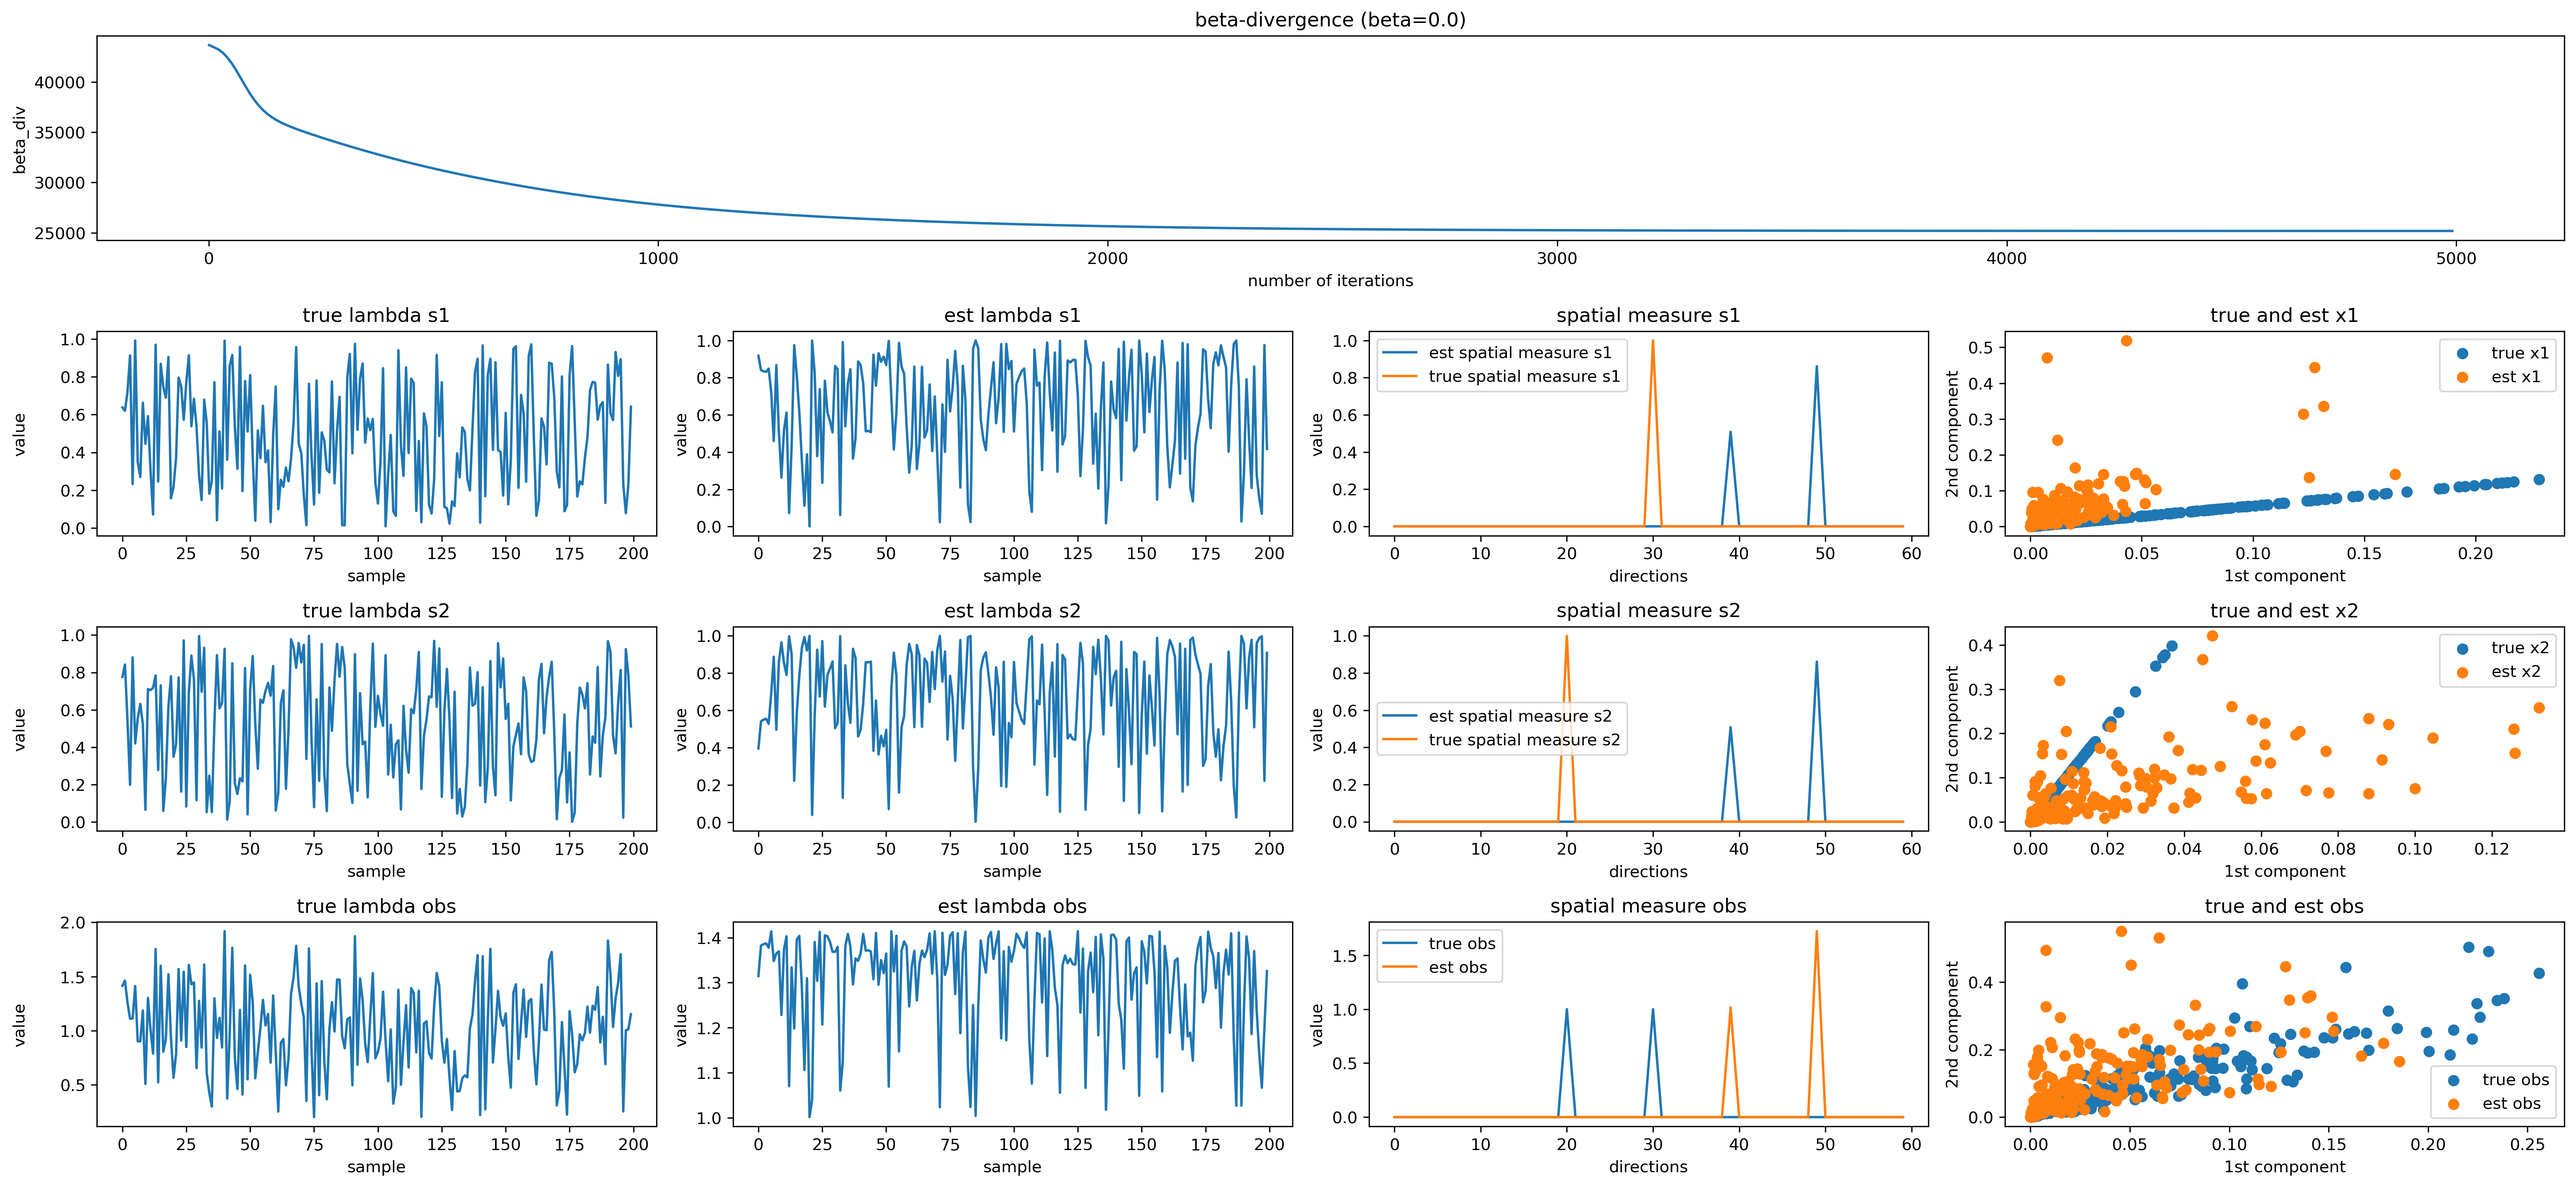
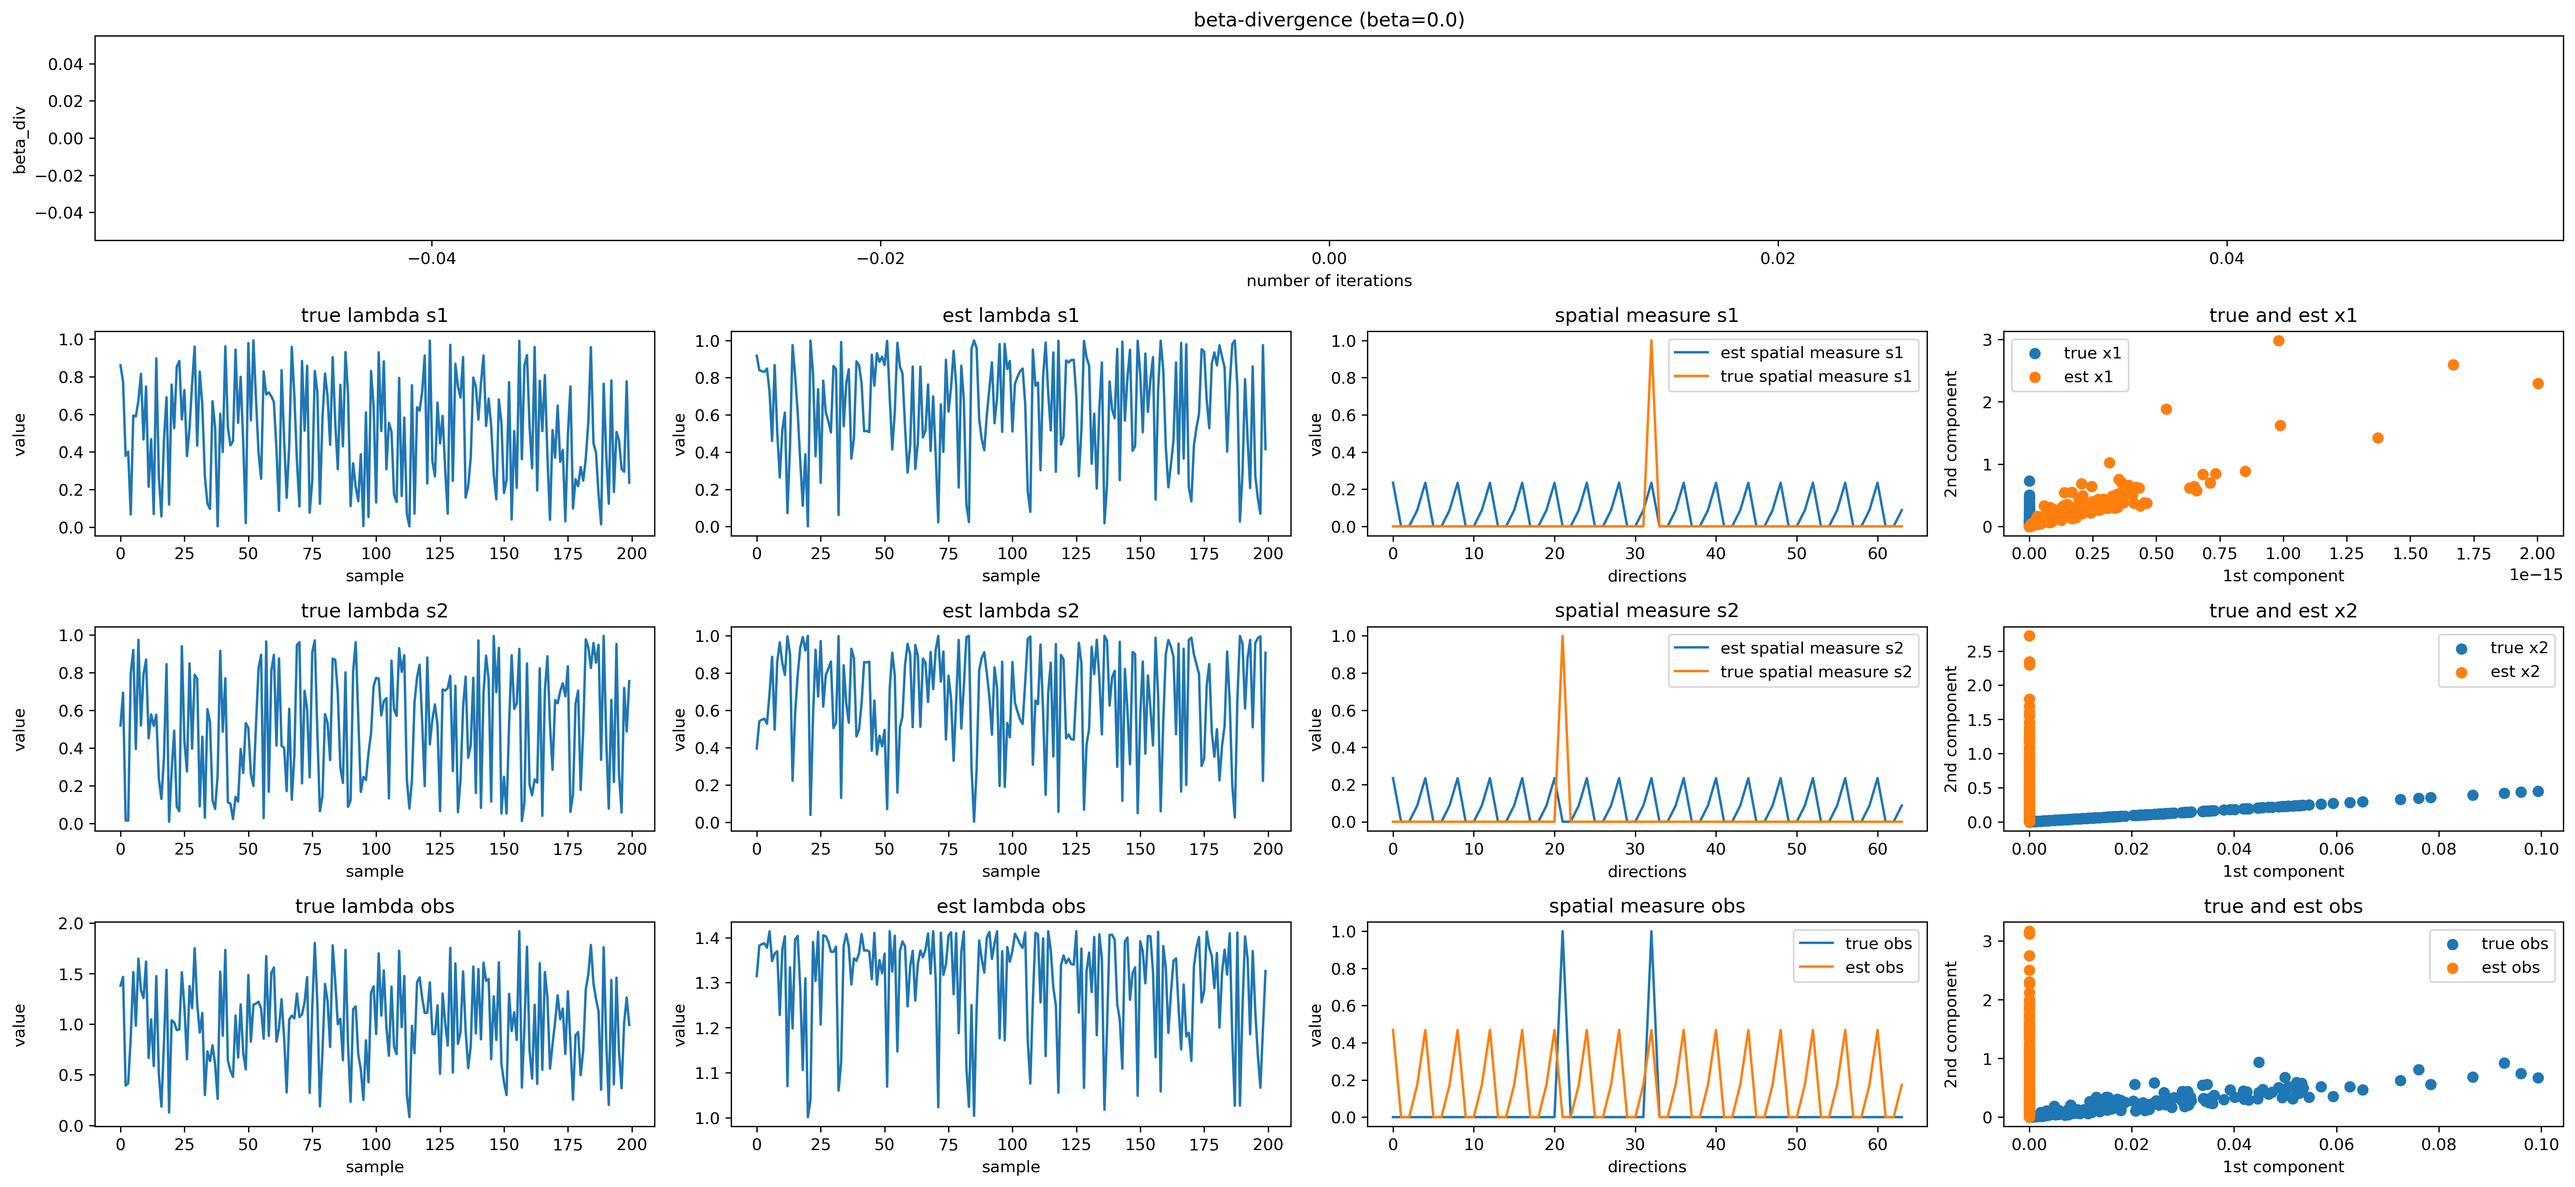
add sphere sampling mode for M=2

diff --git a/code/alpha_SpatialMNMF_toy.py b/code/alpha_SpatialMNMF_toy.py
@@ -134,7 +134,7 @@ class alpha_SpatialMNMF():
                 S_NTP[n, :, dP] *= (self.lambda_true_NT[n] ** (1. / self.alpha))
             self.Y_true_NTM[n, ...] = Cste * np.sum(self.Theta_PM[None, ...] *
                                                 S_NTP[n, :, :, None], axis=-2)
-    def compute_Theta_Oracle(self):  # Nearfield region assumption and Spatial measure = Diracs
+    def compute_Theta_Nearfield(self):  # Nearfield region assumption and Spatial measure = Diracs
         data = loadmat("rir_info.mat")
         index = 5000 + 4
         mic_pos = data['INFO'][0][index]['mic_pos'][:self.n_mic]
@@ -158,6 +158,18 @@ class alpha_SpatialMNMF():
                                  r_PM / c)
         self.Theta_PM /= self.xp.linalg.norm(self.Theta_PM, axis=-1, keepdims=True)
 
+    def compute_Theta_Sphere_Sampling(self):
+        nTheta = int(self.xp.sqrt(self.n_Th)/2)
+        nPhi = int(2 * self.xp.sqrt(self.n_Th))
+        theta = self.xp.linspace(0, np.pi/2, num=nTheta)
+        phi = self.xp.linspace(0, 2*np.pi, num=nPhi, endpoint=False)
+        Theta, Phi = self.xp.meshgrid(theta, phi)
+
+        Sampling_C = self.xp.stack((self.xp.sin(Theta)*self.xp.exp(1j*Phi),
+                                    self.xp.cos(Theta)), axis=2)
+        import ipdb; ipdb.set_trace()
+        self.Theta_PM = self.xp.reshape(Sampling_C, (nPhi * nTheta, 2))
+
     def init_variable(self):
         # hypersphere sampling
         # self.Theta_FPM = self.rand_s.normal(0, 1, size=(self.n_Th, self.n_mic)) +\
@@ -166,7 +178,7 @@ class alpha_SpatialMNMF():
 
         # auxiliary spatial variables
         # P x P' x M
-        self.compute_Theta_Oracle()
+        self.compute_Theta_Sphere_Sampling()
         self.compute_sampling()
         self.X_TM = self.Y_true_NTM.sum(axis=0)
         self.ThTh_PP = (self.Theta_PM.conj()[:, None] * self.Theta_PM[None]).sum(axis=-1)  # F x P x P'
@@ -192,7 +204,7 @@ class alpha_SpatialMNMF():
             self.SM_NP = self.xp.ones((self.n_source, self.n_Th)).astype(self.xp.float)
             # self.SM_NP = self.xp.abs(self.rand_s.rand(self.n_source, self.n_Th)).astype(self.xp.float)
         elif "circ" == self.init_SM:
-            self.SM_NP =  self.xp.maximum(1e-2, self.xp.zeros([self.n_source, self.n_Th], dtype=self.xp.float))
+            self.SM_NP = self.xp.maximum(1e-2, self.xp.zeros([self.n_source, self.n_Th], dtype=self.xp.float))
             for p in range(self.n_Th):
                 self.SM_NP[p % self.n_source, p] = 1
         else:
@@ -273,8 +285,8 @@ class alpha_SpatialMNMF():
 
         self.G_NP = (self.Psi_PP[None, ...] * self.SM_NP[:, None, :]).sum(axis=-1)
 
-        mu_NF = (self.G_NP).sum(axis=-1)
-        self.G_NP = self.G_NP / mu_NF[..., None]
+        # mu_NF = (self.G_NP).sum(axis=-1)
+        # self.G_NP = self.G_NP / mu_NF[..., None]
 
         self.lambda_NT /= self.xp.linalg.norm(self.lambda_NT, axis=0, keepdims=True)
         self.reset_variable()
@@ -295,7 +307,7 @@ class alpha_SpatialMNMF():
         # self.lambda_NFT = self.xp.array(lambda_true_NFT)
         self.Y_TP = (self.lambda_NT[..., None] * self.G_NP[:, None]).sum(axis=0)
         # Numerator
-        ThTh_alpha = self.ThTh_PP.conj() * (self.xp.abs(self.ThTh_PP) ** (self.alpha - 2.))  # P x P'
+        ThTh_alpha = self.ThTh_PP * (self.xp.abs(self.ThTh_PP) ** (self.alpha - 2.))  # P x P'
         temp_num = ThTh_alpha[None] / (self.Y_TP[:, None, :] ** (2 * self.n_mic/self.alpha + 1.))  # T x P x P'
 
         # T x  P x P' x M
@@ -306,7 +318,7 @@ class alpha_SpatialMNMF():
 
         # first T P M M
         self.Xi_TMMP = self.n_mic * (self.Theta_PM[None, :, None] *
-                                      (Num/Den[..., None, None])[..., None].conj()).transpose(0, 2, 3, 1)
+                                      (Num/Den[..., None, None])[..., None].conj()).transpose(0, 3, 2, 1)
 
         # N T M M P
         Mask_NTMM = (self.lambda_NT[..., None, None, None] *\
@@ -314,6 +326,7 @@ class alpha_SpatialMNMF():
                       self.SM_NP[:, None, None, None]).sum(axis=-1)
         Mask_NTMM *= 2. * self.xp.pi ** (self.n_mic) / np.math.factorial(self.n_mic)
         Mask_NTMM /= self.n_Th
+        import ipdb; ipdb.set_trace()
         self.Y_NTM = (Mask_NTMM * self.X_TM[None, :, None]).sum(axis=-1)
 
 
@@ -349,7 +362,7 @@ class alpha_SpatialMNMF():
             Y_true_NTM = self.convert_to_NumpyArray(self.Y_true_NTM)
         np.savez(fileName, lambda_NT=lambda_NT,
                  lambda_true_NT=lambda_true_NT,
-                 SM_NP=SM_NP, SM_true_NP = SM_true_NP, Y_true_NTM=Y_true_NTM,
+                 SM_NP=SM_NP, SM_true_NP=SM_true_NP, Y_true_NTM=Y_true_NTM,
                  Y_NTM=Y_NTM)
 
     def solve(self, n_iteration=100, save_likelihood=False, save_parameter=False, save_wav=False, save_path="./", interval_save_parameter=30):
